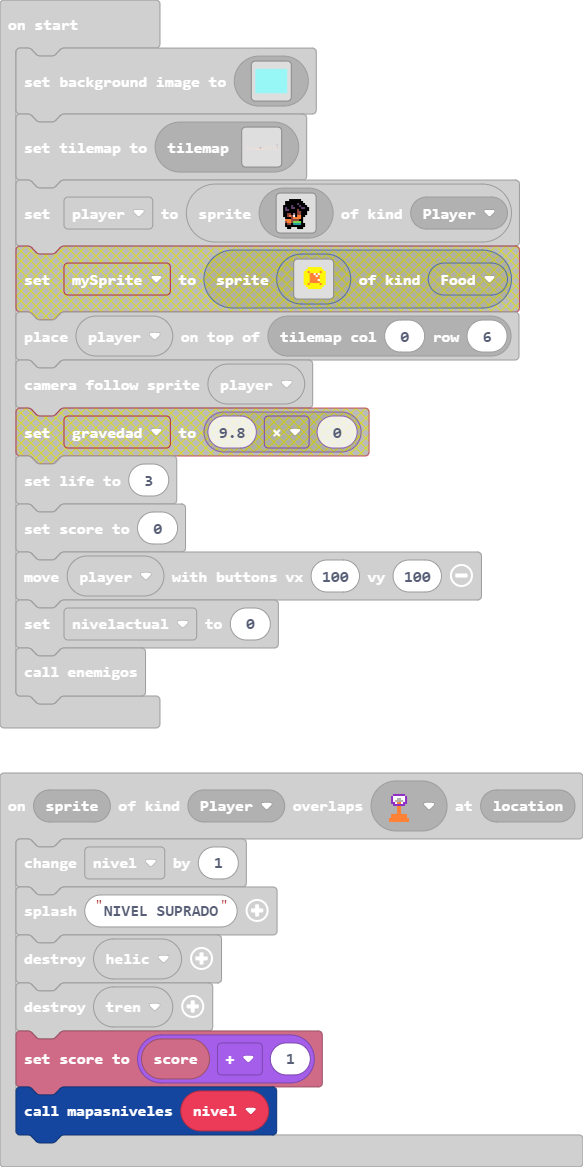
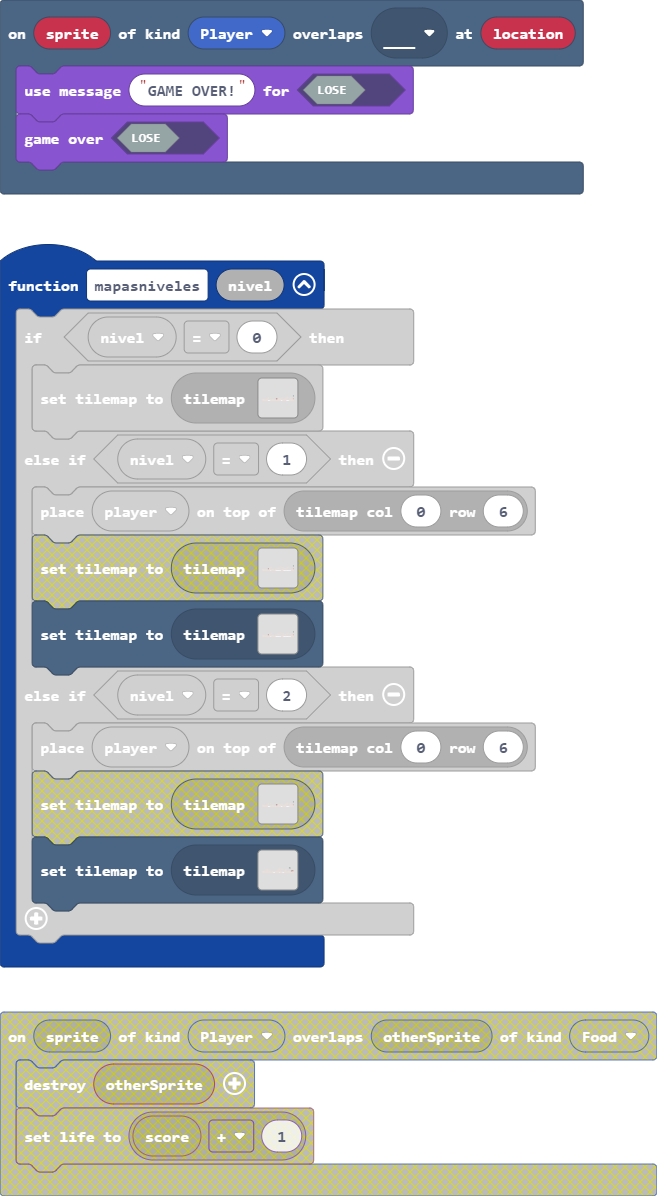
fondos

diff --git a/tilemap.g.ts b/tilemap.g.ts
@@ -12,33 +12,75 @@ namespace myTiles {
     export const tile2 = image.ofBuffer(hex``);
     //% fixedInstance jres blockIdentity=images._tile
     export const tile5 = image.ofBuffer(hex``);
+    //% fixedInstance jres blockIdentity=images._tile
+    export const tile6 = image.ofBuffer(hex``);
 
     helpers._registerFactory("tilemap", function(name: string) {
         switch(helpers.stringTrim(name)) {
+            case "level4":
+            case "level4":return tiles.createTilemap(hex`1000100000000000000000000000000000000000000000000000000000000000000000000000000000000000000000000000000000000000000000000000000000000000000000000000000000000000000000000000000000000000000000000000000000000000000000000000000000000000000000000000000000000000000000000000000000000000000000000000000000000000000000000000000000000000000000000000000000000000000000000000000000000000000000000000000000000000000000000000000000000000000000000000000000000000000000000000000000000000000000000000000000000000000000000000000000000000`, img`
+. . . . . . . . . . . . . . . . 
+. . . . . . . . . . . . . . . . 
+. . . . . . . . . . . . . . . . 
+. . . . . . . . . . . . . . . . 
+. . . . . . . . . . . . . . . . 
+. . . . . . . . . . . . . . . . 
+. . . . . . . . . . . . . . . . 
+. . . . . . . . . . . . . . . . 
+. . . . . . . . . . . . . . . . 
+. . . . . . . . . . . . . . . . 
+. . . . . . . . . . . . . . . . 
+. . . . . . . . . . . . . . . . 
+. . . . . . . . . . . . . . . . 
+. . . . . . . . . . . . . . . . 
+. . . . . . . . . . . . . . . . 
+. . . . . . . . . . . . . . . . 
+`, [myTiles.transparency16], TileScale.Sixteen);
+            case "level5":
+            case "level5":return tiles.createTilemap(hex`1000100000000000000000000000000000000000000000000000000000000000000000000000000000000000000000000000000000000000000000000000000000000000000000000000000000000000000000000000000000000000000000000000000000000000000000000000000000000000000000000000000000000000000000000000000000000000000000000000000000000000000000000000000000000000000000000000000000000000000000000000000000000000000000000000000000000000000000000000000000000000000000000000000000000000000000000000000000000000000000000000000000000000000000000000000000000000`, img`
+. . . . . . . . . . . . . . . . 
+. . . . . . . . . . . . . . . . 
+. . . . . . . . . . . . . . . . 
+. . . . . . . . . . . . . . . . 
+. . . . . . . . . . . . . . . . 
+. . . . . . . . . . . . . . . . 
+. . . . . . . . . . . . . . . . 
+. . . . . . . . . . . . . . . . 
+. . . . . . . . . . . . . . . . 
+. . . . . . . . . . . . . . . . 
+. . . . . . . . . . . . . . . . 
+. . . . . . . . . . . . . . . . 
+. . . . . . . . . . . . . . . . 
+. . . . . . . . . . . . . . . . 
+. . . . . . . . . . . . . . . . 
+. . . . . . . . . . . . . . . . 
+`, [myTiles.transparency16], TileScale.Sixteen);
             case "level":
[2 lines of base64/hex data omitted]
 ..........................................
 ..........................................
 ..........................................
-.......................2..................
+.......................2............2.....
 ......................22.222..............
 .....2222.2.........2222......22..........
 ..........................................
 222222222222222..222222.222..2222222222222
-`, [myTiles.transparency16,myTiles.tile3,myTiles.tile1,myTiles.tile4,myTiles.tile2,sprites.builtin.brick], TileScale.Sixteen);
+222222222222222..222222.222..2222222222222
+`, [myTiles.transparency16,myTiles.tile3,myTiles.tile1,myTiles.tile2,sprites.builtin.brick,myTiles.tile6], TileScale.Sixteen);
             case "level1":
[2 lines of base64/hex data omitted]
 ..........................................
 ..........................................
 ..........................................
-.................2.......................2
+.........................................2
 ............2..........2.2.......2.2......
 ..........2.........2222...22...22..2.....
 .........22.......2...........22..........
 22222222222.222222.......222..........2222
-`, [myTiles.transparency16,myTiles.tile3,myTiles.tile4,myTiles.tile2,sprites.builtin.brick,myTiles.tile1], TileScale.Sixteen);
+22222222222.222222.......222..........2222
+`, [myTiles.transparency16,myTiles.tile3,myTiles.tile2,sprites.builtin.brick,myTiles.tile1,myTiles.tile6], TileScale.Sixteen);
             case "level2":
[2 lines of base64/hex data omitted]
 ..........................................
 ..........................................
 ..........................................
@@ -48,7 +90,45 @@ namespace myTiles {
 ....................22222.....2......2....
 22222222...22222222222222..22222....222222
 22222222...22222222222222..22222....222222
-`, [myTiles.transparency16,sprites.builtin.brick,myTiles.tile1,myTiles.tile3,myTiles.tile2,myTiles.tile5], TileScale.Sixteen);
+`, [myTiles.transparency16,sprites.builtin.brick,myTiles.tile1,myTiles.tile3,myTiles.tile2,myTiles.tile6], TileScale.Sixteen);
+            case "level6":
+            case "level6":return tiles.createTilemap(hex`1000100000000000000000000000000000000000000000000000000000000000000000000000000000000000000000000000000000000000000000000000000000000000000000000000000000000000000000000000000000000000000000000000000000000000000000000000000000000000000000000000000000000000000000000000000000000000000000000000000000000000000000000000000000000000000000000000000000000000000000000000000000000000000000000000000000000000000000000000000000000000000000000000000000000000000000000000000000000000000000000000000000000000000000000000000000000000`, img`
+. . . . . . . . . . . . . . . . 
+. . . . . . . . . . . . . . . . 
+. . . . . . . . . . . . . . . . 
+. . . . . . . . . . . . . . . . 
+. . . . . . . . . . . . . . . . 
+. . . . . . . . . . . . . . . . 
+. . . . . . . . . . . . . . . . 
+. . . . . . . . . . . . . . . . 
+. . . . . . . . . . . . . . . . 
+. . . . . . . . . . . . . . . . 
+. . . . . . . . . . . . . . . . 
+. . . . . . . . . . . . . . . . 
+. . . . . . . . . . . . . . . . 
+. . . . . . . . . . . . . . . . 
+. . . . . . . . . . . . . . . . 
+. . . . . . . . . . . . . . . . 
+`, [myTiles.transparency16], TileScale.Sixteen);
+            case "level7":
+            case "level7":return tiles.createTilemap(hex`1000100000000000000000000000000000000000000000000000000000000000000000000000000000000000000000000000000000000000000000000000000000000000000000000000000000000000000000000000000000000000000000000000000000000000000000000000000000000000000000000000000000000000000000000000000000000000000000000000000000000000000000000000000000000000000000000000000000000000000000000000000000000000000000000000000000000000000000000000000000000000000000000000000000000000000000000000000000000000000000000000000000000000000000000000000000000000`, img`
+. . . . . . . . . . . . . . . . 
+. . . . . . . . . . . . . . . . 
+. . . . . . . . . . . . . . . . 
+. . . . . . . . . . . . . . . . 
+. . . . . . . . . . . . . . . . 
+. . . . . . . . . . . . . . . . 
+. . . . . . . . . . . . . . . . 
+. . . . . . . . . . . . . . . . 
+. . . . . . . . . . . . . . . . 
+. . . . . . . . . . . . . . . . 
+. . . . . . . . . . . . . . . . 
+. . . . . . . . . . . . . . . . 
+. . . . . . . . . . . . . . . . 
+. . . . . . . . . . . . . . . . 
+. . . . . . . . . . . . . . . . 
+. . . . . . . . . . . . . . . . 
+`, [myTiles.transparency16], TileScale.Sixteen);
         }
         return null;
     })
@@ -66,6 +146,8 @@ namespace myTiles {
             case "tile2":return tile2;
             case "myTile2":
             case "tile5":return tile5;
+            case "myTile3":
+            case "tile6":return tile6;
         }
         return null;
     })

diff --git a/main.ts b/main.ts
@@ -10,9 +10,9 @@ function nivel () {
     let nivelcontador = 0
     return nivelactual != nivelcontador
 }
-sprites.onOverlap(SpriteKind.Player, SpriteKind.Food, function (sprite, otherSprite) {
-    sprites.destroy(otherSprite)
-    info.setLife(info.score() + 1)
+scene.onOverlapTile(SpriteKind.Player, assets.tile`myTile3`, function (sprite, location) {
+    game.setGameOverMessage(false, "GAME OVER!")
+    game.gameOver(false)
 })
 function enemigos () {
     for (let index = 0; index < 200; index++) {
@@ -75,7 +75,7 @@ function mapasniveles (nivel2: number) {
         tiles.setCurrentTilemap(tilemap`level1`)
     } else if (nivel2 == 2) {
         tiles.placeOnTile(player2, tiles.getTileLocation(0, 6))
-        tiles.setCurrentTilemap(tilemap`level2`)
+        tiles.setCurrentTilemap(tilemap`level`)
     }
 }
 sprites.onOverlap(SpriteKind.Player, SpriteKind.Enemy, function (sprite, otherSprite) {
